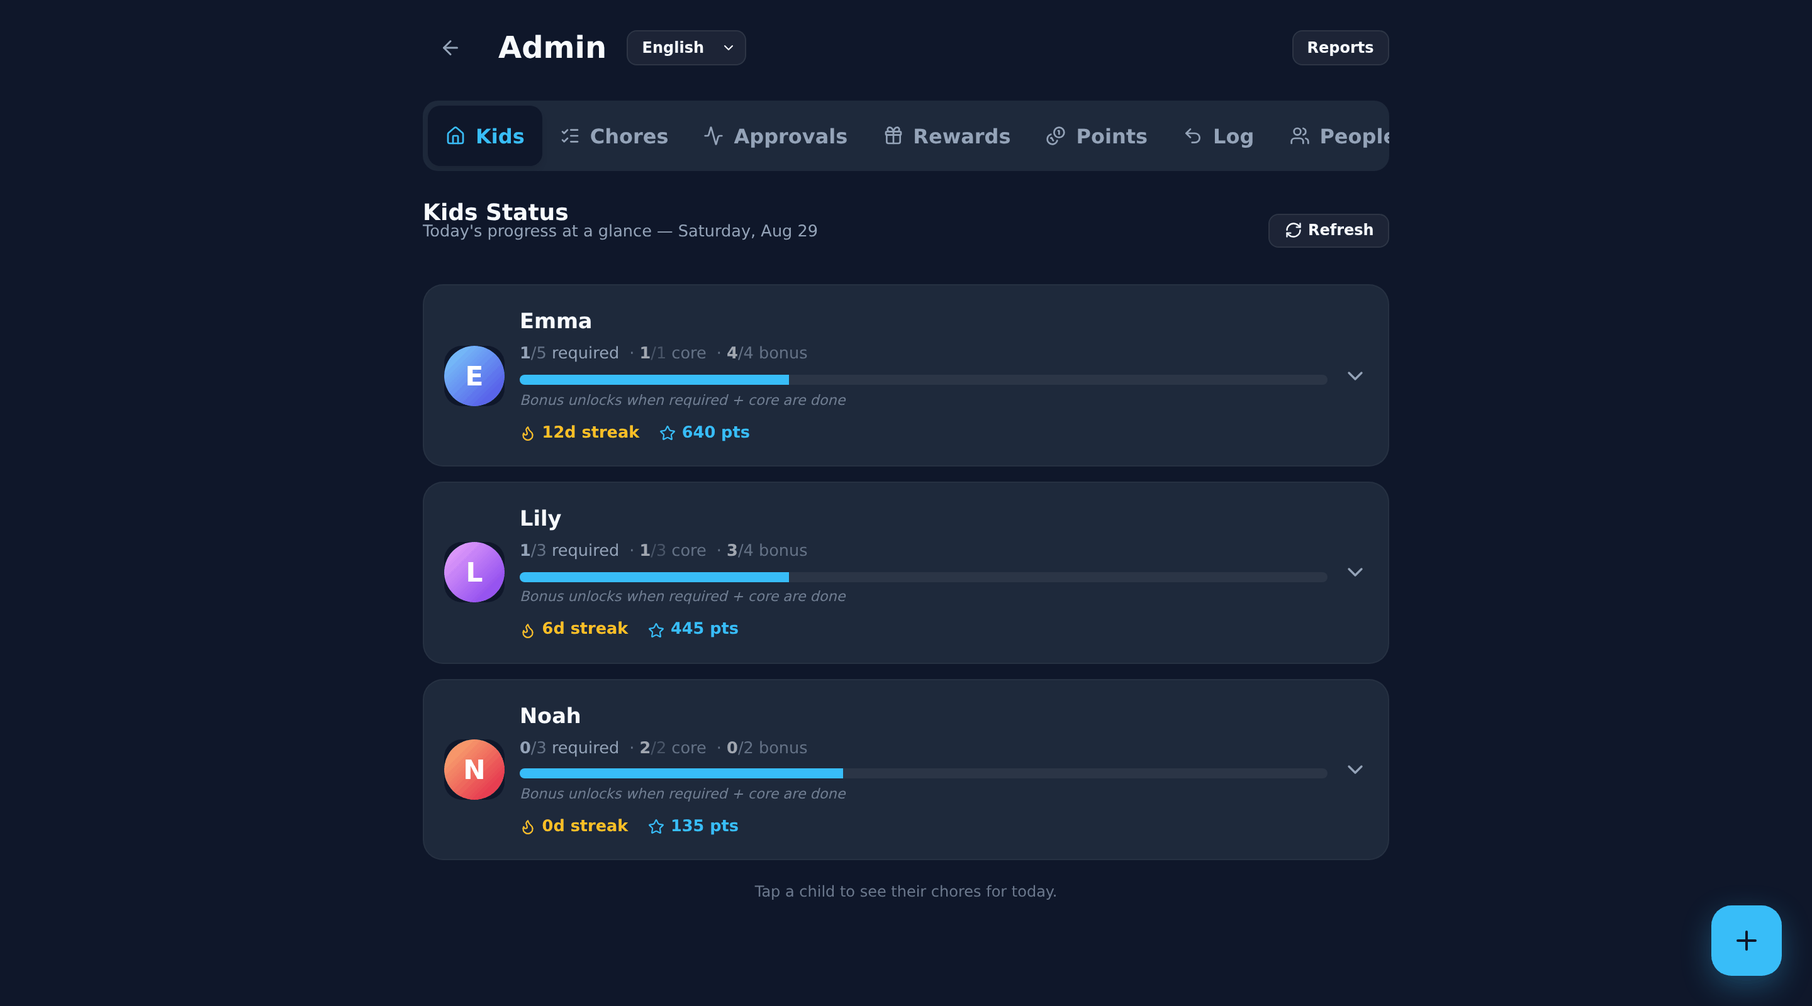
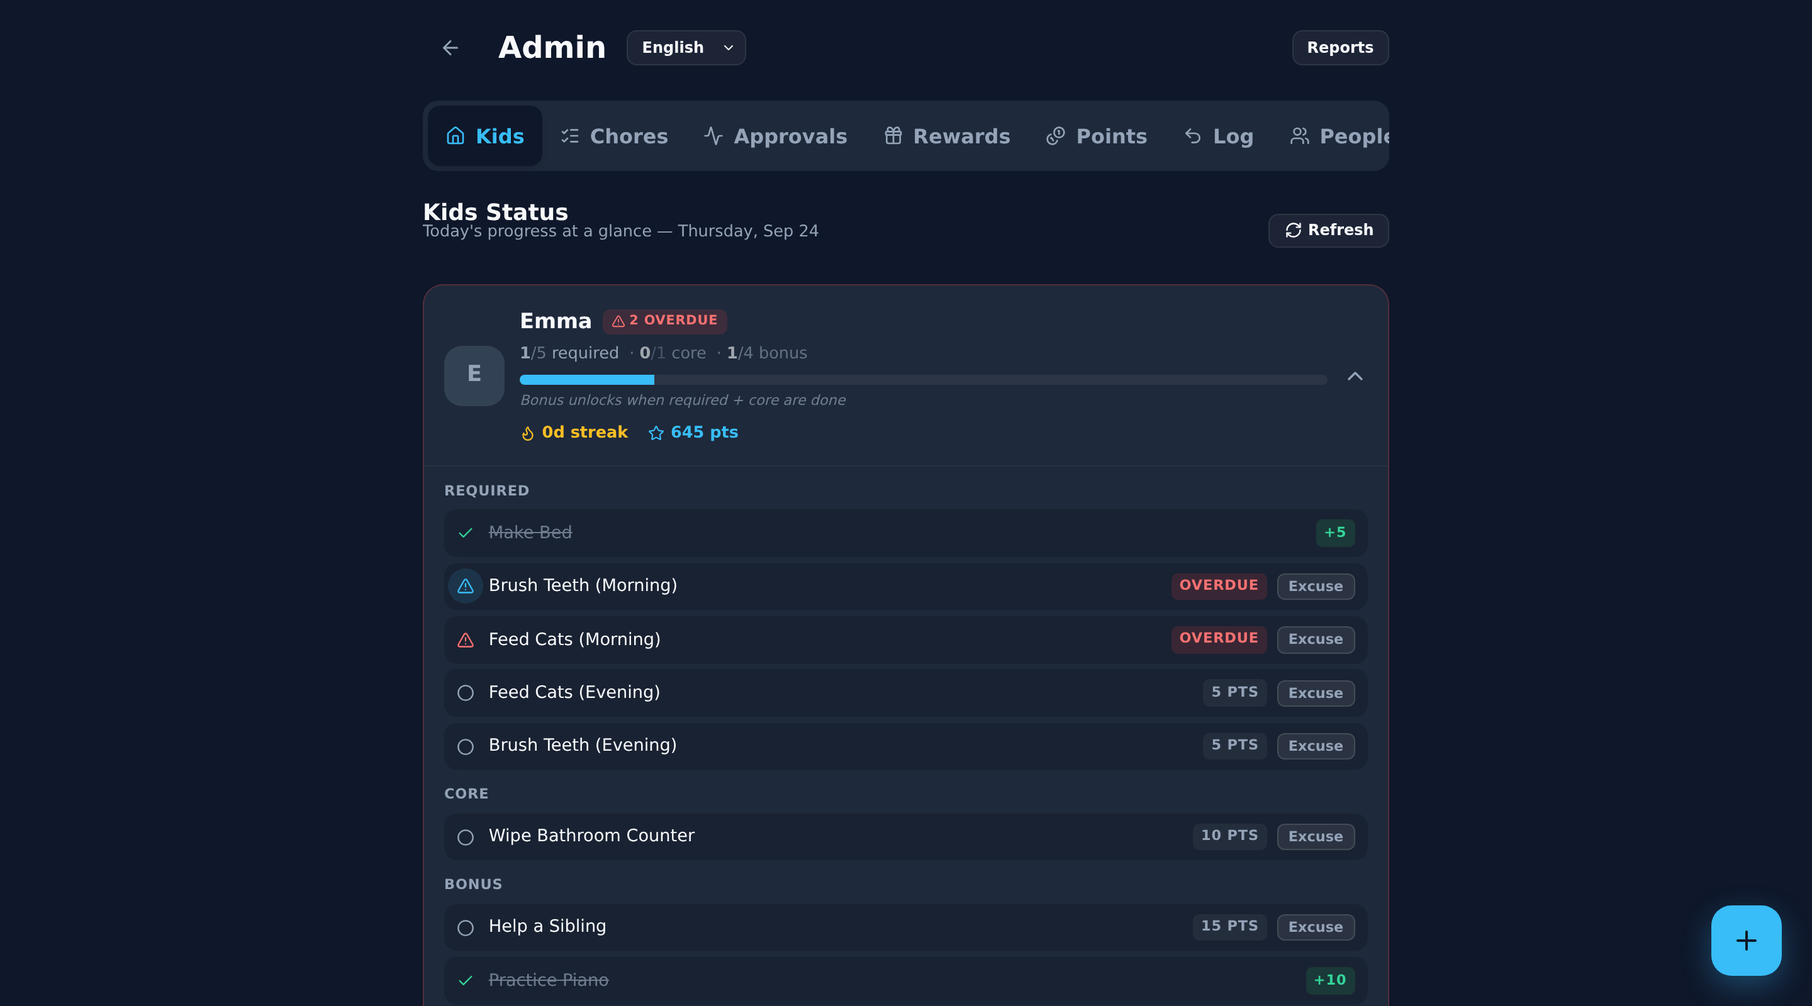
Document sign-in, OIDC providers and upgrading; refresh screenshots
- docs/authentication.md: profile-first sign-in, parent requirements,
  sessions, linking, provider setup (Pocket ID, Google, Microsoft), why
  GitHub/Discord need a broker, and the upgrade path from the passcode.
- API reference, README, CLAUDE.md and roadmap updated for sessions,
  new endpoints, error codes and webhook events.
- New screenshots for parent sign-in and linked accounts; Kids tab
  screenshot shows the tappable chore circles.
- nginx forwards the full Host (with port) so redirect URIs are right.

Claude-Session: https://claude.ai/code/session_01FZvG2ZNhcnjbJUhBr9yQvQ

diff --git a/docs/api.md b/docs/api.md
@@ -5,17 +5,31 @@ back as `{"error": "..."}` with a matching HTTP status.
 
 ## Authentication
 
-There are no sessions. A request identifies itself in one of three ways:
+A request identifies itself in one of three ways:
 
-| Method | Header | Used by |
-|--------|--------|---------|
-| User | `X-User-ID: <id>` | The web app, after profile selection |
-| Token | `Authorization: Bearer <token>` | Integrations (Home Assistant, scripts) |
+| Method | How | Used by |
+|--------|-----|---------|
+| Session | `openchore_session` cookie, or `Authorization: Bearer ocs1.…` | The web app, after signing in to a profile |
+| API token | `Authorization: Bearer <token>` | Integrations (Home Assistant, scripts); acts as an admin |
 | None | — | Public endpoints only |
 
-Admin endpoints additionally require the caller to have the `admin` role. The
-admin panel itself is gated behind a passcode (`POST /api/admin/verify`), which
-is a UI lock rather than a transport-level credential.
+Sessions are HMAC-signed and issued by the server: `POST /api/auth/login`
+(tap or PIN), an OIDC sign-in, or `POST /api/setup`. The legacy `X-User-ID`
+header is **ignored**. Admin endpoints need a session for a profile with the
+`admin` role, or an API token. See [authentication.md](authentication.md)
+for the full model.
+
+`POST /api/auth/login` takes `{"user_id": 3, "pin": "1234"}` (omit `pin` for
+profiles without one) and returns `{"user", "session", "token"}`. On failure
+the body includes a `code`:
+
+| Code | Status | Meaning |
+|------|--------|---------|
+| `incorrect_pin` | 401 | Wrong PIN |
+| `locked_out` | 429 | Too many wrong PINs; see `retry_after_seconds` |
+| `oidc_required` | 403 | The profile signs in with a linked account; see `providers` |
+| `admin_setup_required` | 403 | Parent profile without a credential; resend with `new_pin` (plus `legacy_passcode` when `legacy_passcode: true`) |
+| `incorrect_passcode` | 401 | Wrong legacy household passcode |
 
 Uploaded photos are served from `/uploads/*` and generated TTS audio from
 `/tts/*`.
@@ -30,24 +44,40 @@ No authentication required.
 |--------|------|-------------|
 | `GET` | `/api/users` | List users (drives the profile selection screen) |
 | `GET` | `/api/users/{id}` | Get one user |
-| `POST` | `/api/users/{id}/verify-pin` | Verify a profile PIN from the login screen |
-| `POST` | `/api/admin/verify` | Verify the admin passcode |
-| `POST` | `/api/setup` | First-run setup — only succeeds while no users exist |
+| `GET` | `/api/users/{id}/chores?view=daily&date=YYYY-MM-DD` | Scheduled chores, read-only (used by the wall display) |
+| `GET` | `/api/users/{id}/points` | Balance plus the transaction ledger |
+| `GET` | `/api/users/{id}/streak` | Current streak and next milestone |
+| `POST` | `/api/auth/login` | Sign in to a profile (see above) |
+| `POST` | `/api/auth/logout` | Clear the session cookie |
+| `GET` | `/api/auth/providers` | Configured OIDC providers (`id`, `name`) |
+| `GET` | `/api/auth/oidc/{provider}/start?mode=login&user_id=…&return=/path` | Browser redirect to the provider; `user_id` is the tapped profile |
+| `GET` | `/api/auth/oidc/{provider}/start?mode=link&return=/path` | Link the provider to the signed-in profile |
+| `GET` | `/api/auth/oidc/{provider}/callback` | Provider redirect target; errors come back as `?auth_error=<code>` |
+| `POST` | `/api/setup` | First-run setup: `{"parent": {"name", "pin"}, "children", "chores"}`. Only succeeds while no users exist, and signs the parent in |
 | `POST` | `/api/hooks/trigger/{uuid}` | Fire a chore trigger; the UUID is the credential |
 
 ---
 
 ## Authenticated
 
-Requires `X-User-ID` or a Bearer token.
+Requires a session or an API token.
+
+### Session
+
+| Method | Path | Description |
+|--------|------|-------------|
+| `GET` | `/api/auth/me` | The signed-in user and session (`method`, `expires_at`, `persistent`, `provider`) |
+| `POST` | `/api/auth/logout-everywhere` | Revoke every session for the caller |
+| `POST` | `/api/auth/upload-link` | `{"schedule_id"}` → a 30-minute token that can only upload a photo and complete that chore (used by the QR code) |
+| `GET` | `/api/users/{id}/identities` | Linked accounts (self or admin) |
+| `DELETE` | `/api/users/{id}/identities/{identityID}` | Unlink an account (self or admin); revokes that person's sessions |
 
 ### Chores
 
 | Method | Path | Description |
 |--------|------|-------------|
-| `GET` | `/api/users/{id}/chores?view=daily&date=YYYY-MM-DD` | Scheduled chores (`view=daily` or `weekly`) |
-| `POST` | `/api/schedules/{id}/complete` | Complete a chore; body may set `completion_date` |
-| `DELETE` | `/api/schedules/{id}/complete?date=YYYY-MM-DD` | Undo a completion |
+| `POST` | `/api/schedules/{id}/complete` | Complete a chore; body may set `completion_date`. Only the assignee or an admin may call it. Points go to the assignee, and an admin completing on someone's behalf doesn't need a photo |
+| `DELETE` | `/api/schedules/{id}/complete?date=YYYY-MM-DD` | Undo a completion (assignee or admin) |
 | `POST` | `/api/upload` | Upload photo proof (multipart) |
 | `PUT` | `/api/completions/{id}/photo` | Attach an uploaded photo to a completion |
 
@@ -55,8 +85,6 @@ Requires `X-User-ID` or a Bearer token.
 
 | Method | Path | Description |
 |--------|------|-------------|
-| `GET` | `/api/users/{id}/points` | Balance plus the transaction ledger |
-| `GET` | `/api/users/{id}/streak` | Current streak and next milestone |
 | `GET` | `/api/rewards` | Rewards visible to this user |
 | `POST` | `/api/rewards/{id}/redeem` | Redeem a reward |
 | `GET` | `/api/users/{id}/redemptions` | Redemption history |
@@ -95,8 +123,8 @@ Requires an authenticated caller with the `admin` role.
 
 | Method | Path | Description |
 |--------|------|-------------|
-| `POST` | `/api/users` | Create a user |
-| `PUT` | `/api/users/{id}` | Update a user |
+| `POST` | `/api/users` | Create a user; `pin` is required for `role: admin` |
+| `PUT` | `/api/users/{id}` | Update a user. Promoting to admin requires an existing credential; the last admin can't be demoted |
 | `DELETE` | `/api/users/{id}` | Delete a user |
 | `PUT` | `/api/users/{id}/pause` | Pause chores (vacation mode) |
 | `PUT` | `/api/users/{id}/unpause` | Resume chores |
@@ -153,8 +181,7 @@ Requires an authenticated caller with the `admin` role.
 |--------|------|-------------|
 | `GET` | `/api/admin/reports` | Analytics data behind the reports page |
 | `GET` | `/api/admin/reports/ai-summary` | Narrative summary of a kid's week |
-| `GET` `PUT` | `/api/admin/settings/{key}` | Read / write a setting |
-| `PUT` | `/api/admin/passcode` | Change the admin passcode |
+| `GET` `PUT` | `/api/admin/settings/{key}` | Read / write a setting (secrets such as `session_secret` are not readable) |
 | `GET` | `/api/admin/export-config` | Export current configuration as YAML |
 | `POST` | `/api/admin/ai/test` | Test photo review against an image |
 | `POST` | `/api/admin/ai/tts` | Synthesize speech for arbitrary text |
@@ -183,5 +210,7 @@ attempt is recorded in the delivery log.
 | `points.decayed` | Daily decay debits a balance (payload reports any points reclaimed from savings goals) |
 | `chore.missed` | A chore ends the day unfinished |
 | `chore.fcfs_completed` | A first-come-first-served chore is claimed |
-| `auth.admin_passcode.verified` `auth.admin_passcode.failed` `auth.admin_passcode.changed` | Admin passcode activity |
-| `auth.profile_pin.verified` `auth.profile_pin.failed` `auth.profile_pin.changed` `auth.profile_pin.cleared` | Profile PIN activity |
+| `auth.profile_pin.verified` `auth.profile_pin.failed` `auth.profile_pin.changed` `auth.profile_pin.cleared` | Profile PIN activity, including PIN sign-ins |
+| `auth.oidc.login` | Someone signed in with a linked account |
+| `auth.identity.linked` `auth.identity.unlinked` | A linked account was added or removed |
+| `auth.admin_passcode.verified` `auth.admin_passcode.failed` | The legacy household passcode was used during the one-time upgrade step |

diff --git a/docs/authentication.md b/docs/authentication.md
@@ -1,0 +1,157 @@
+# Signing in
+
+OpenChore is built for a shared tablet on the wall first and personal phones
+second. Sign-in follows that: **tap your profile**, then prove it's you only
+if the profile asks for it.
+
+| Profile has… | Tapping it… |
+|---|---|
+| Nothing (typical for young kids) | Signs straight in |
+| A PIN | Shows the PIN pad |
+| A linked account (Pocket ID, Google, …) | Shows **Continue with …** |
+| Both | Shows the PIN pad *and* **Continue with …** |
+
+Parents are ordinary profiles with the admin role. They sign in the same way
+and get a **Manage** button on their own dashboard; there is no separate
+household passcode. Parents take part like everyone else: they can be
+assigned chores, earn points, redeem rewards and pick a theme.
+
+Every **parent profile must have a PIN or a linked account**. The server
+refuses to create a parent without a PIN, to promote someone without one, or
+to remove a parent's last way to sign in.
+
+## Sessions
+
+Signing in gets you a server-issued, signed session in an `HttpOnly` cookie.
+The API does not trust a client-supplied user ID.
+
+| Signed in with | Lasts | On idle |
+|---|---|---|
+| Tap or PIN | 12 hours (`auth.kiosk_session_ttl`) | Signed out after 5 minutes idle; the tablet returns to the wall display |
+| Linked account (OIDC) | 30 days (`auth.personal_session_ttl`) | Stays signed in, so your phone just opens to your chores |
+
+**Sign out on all devices** (in *Linked accounts*) revokes every session for
+your profile. Unlinking an account or changing someone's role does the same
+for that person.
+
+Five wrong PINs in a row lock that profile for 30 seconds, and the lockout
+doubles with each further miss (up to 15 minutes).
+
+The wall display (`/ambient`) needs no sign-in. The per-person chores, points
+and streak endpoints it reads are public and read-only.
+
+## Linking an account (OIDC)
+
+OpenChore works with any OpenID Connect provider: Pocket ID, Authelia,
+Authentik, Keycloak, Zitadel, Kanidm, Google, Microsoft and so on. You can
+configure several at once.
+
+Accounts are never created from a provider. Each person:
+
+1. Signs in to their profile as usual (tap or PIN).
+2. Opens **Linked accounts** (the link icon on their dashboard) and chooses
+   **Link Pocket ID**, or whichever provider you set up.
+3. Signs in at the provider and is sent back, linked.
+
+From then on, tapping their profile offers **Continue with Pocket ID**, and on
+their own phone they stay signed in. If someone taps a profile and then signs
+in at the provider as somebody else, the sign-in is refused.
+
+Parents can see and unlink anyone's linked accounts from **Manage → People**.
+Only the person themselves can link a new one.
+
+### Configuring a provider
+
+Register OpenChore as an OIDC client at your provider:
+
+- **Redirect URI:** `https://<your OpenChore URL>/api/auth/oidc/<id>/callback`
+- **Scopes:** `openid profile email`
+- **Client type:** confidential (client secret). PKCE (S256) is always used as well.
+
+Then add it to `config/config.yaml`. Unlike the seed sections, the `auth`
+section is read on **every** start, so you can add it to an existing install
+and restart:
+
+```yaml
+auth:
+  public_url: "https://chores.example.com"   # used to build the redirect URI
+  oidc:
+    - id: pocketid             # appears in the callback URL; don't change it once people have linked
+      name: "Pocket ID"        # button label: "Continue with Pocket ID"
+      issuer: "https://id.example.com"
+      client_id: "openchore"
+      client_secret: "${POCKET_ID_CLIENT_SECRET}"   # ${VAR} expands from the environment
+      prompt: login            # optional: re-authenticate every time (recommended on shared tablets)
+```
+
+Or configure a single provider with environment variables only:
+
+| Variable | Meaning |
+|---|---|
+| `OIDC_ISSUER` | Issuer URL (enables the provider) |
+| `OIDC_CLIENT_ID` / `OIDC_CLIENT_SECRET` | Client credentials |
+| `OIDC_PROVIDER_ID` | Provider ID, default `oidc` |
+| `OIDC_PROVIDER_NAME` | Button label, default `Single sign-on` |
+| `OIDC_SCOPES` | Space- or comma-separated, default `openid profile email` |
+| `OIDC_PROMPT` | Passed through as the `prompt` parameter, e.g. `login` |
+| `OPENCHORE_PUBLIC_URL` | Overrides `auth.public_url` |
+| `OPENCHORE_SESSION_SECRET` | Optional; at least 32 characters. Otherwise a secret is generated and stored in the database |
+
+**Set `public_url`** (or the *System Base URL* under Manage → Settings) when
+OpenChore sits behind a reverse proxy. Otherwise the redirect URI is guessed
+from the request's `Host` and `X-Forwarded-Proto` headers, which proxies don't
+always pass through.
+
+If your provider uses a certificate from a private CA, point `SSL_CERT_FILE`
+at a bundle that includes it.
+
+### Pocket ID
+
+In Pocket ID, go to **OIDC Clients → Add OIDC Client**, set the callback URL
+above, and copy the client ID and secret into the config. Pocket ID signs in
+with passkeys. On a shared wall tablet that usually means scanning a QR code
+with your phone, so parents often keep a PIN for the tablet and use Pocket ID
+on their own phones. Setting `prompt: login` makes Pocket ID ask every time
+rather than silently reusing a session left open on the tablet.
+
+### Google and Microsoft
+
+Both are standard OIDC providers:
+
+| Provider | Issuer |
+|---|---|
+| Google | `https://accounts.google.com` |
+| Microsoft (one tenant) | `https://login.microsoftonline.com/<tenant-id>/v2.0` |
+| Microsoft (personal accounts) | `https://login.microsoftonline.com/9188040d-6c67-4c5b-b112-36a304b66dad/v2.0` |
+
+Microsoft's multi-tenant `common` and `organizations` endpoints don't publish
+a fixed issuer, so they aren't supported. Use a tenant-specific issuer.
+
+### "Social login" with GitHub, Discord, Apple and others
+
+GitHub, Discord and Facebook use plain OAuth 2.0, not OpenID Connect, so
+OpenChore can't talk to them directly. If you want them, put an identity
+broker in front: Authentik, Keycloak, Zitadel or Dex can each sign people in
+with those services and present them to OpenChore as a single OIDC provider.
+Pocket ID and Authelia don't federate upstream logins.
+
+## Upgrading from the household passcode
+
+Earlier versions had one shared admin passcode and no real sign-in. After
+upgrading:
+
+- **Parent profiles that already have a PIN** just use it.
+- **Parent profiles without a PIN** are asked, the first time they're tapped,
+  for the old admin passcode (default `0000`) and a new PIN of their own. Once
+  every parent has a PIN or a linked account, the old passcode is deleted.
+- **Kids** are unaffected: no PIN means tap and go, same as before.
+- **API tokens** keep working unchanged.
+- **Scripts that sent `X-User-ID`** must switch to an API token
+  (Manage → Settings → API Tokens) or sign in with `POST /api/auth/login` and
+  send the returned session as `Authorization: Bearer ocs1.…`.
+- The `auth.admin_passcode.*` webhook events now fire only for that one-time
+  upgrade step. Use `auth.profile_pin.*`, `auth.oidc.login` and
+  `auth.identity.*` for sign-in auditing.
+
+Photo QR codes now carry a short-lived token that can only upload a photo for
+that one chore. The phone that scans the code doesn't need to be signed in.

diff --git a/README.md b/README.md
@@ -49,9 +49,11 @@ docker compose up -d
 Open **http://localhost:8080** and pick a profile.
 
 > [!IMPORTANT]
-> The admin passcode is `0000` on a fresh database, or whatever
-> `settings.admin_passcode` says in your config (the example file uses `1234`).
-> Change it under **Admin → Settings** before putting this on your network.
+> Parents sign in to their own profile with a PIN (the example config uses
+> `1234` for Alex and `5678` for Jamie) and then tap **Manage**. Change those
+> PINs with the key icon on the dashboard before putting this on your network.
+> Want Pocket ID, Authelia, Google or another OpenID Connect sign-in? See
+> [Signing in](docs/authentication.md).
 
 `config.yaml` is applied **only when the database is empty**. After first boot,
 manage everything from the admin panel — or wipe and re-seed with
@@ -106,11 +108,19 @@ Around it sit the other levers:
 </tr>
 <tr>
 <td><img src="docs/screenshots/kid-week.png" alt="Weekly chore view"></td>
-<td><img src="docs/screenshots/admin-kids.png" alt="Admin dashboard showing each child's status"></td>
+<td><img src="docs/screenshots/admin-kids.png" alt="Manage screen showing a child's chores with tappable status circles"></td>
 </tr>
 <tr>
 <td align="center"><b>Week</b> — what's done, what's locked, what's coming</td>
-<td align="center"><b>Admin</b> — every kid's day at a glance</td>
+<td align="center"><b>Manage</b> — everyone's day at a glance; tap a circle to tick a chore off for them</td>
+</tr>
+<tr>
+<td><img src="docs/screenshots/parent-sign-in.png" alt="A parent's PIN pad with a Continue with Pocket ID button" width="60%"></td>
+<td><img src="docs/screenshots/linked-accounts.png" alt="The linked accounts sheet" width="60%"></td>
+</tr>
+<tr>
+<td align="center"><b>Sign in</b> — tap your profile, then PIN or single sign-on</td>
+<td align="center"><b>Linked accounts</b> — Pocket ID, Authelia, Google, any OIDC provider</td>
 </tr>
 </table>
 
@@ -141,6 +151,8 @@ Around it sit the other levers:
 
 **Household**
 - Parent approval queue
+- Parents can take part too
+- PINs and OIDC single sign-on
 - Photo proof via QR handoff
 - Discord notifications
 - Reports: scorecards, trends, misses
@@ -189,6 +201,9 @@ Around it sit the other levers:
 | `AI_ENDPOINT` | `http://litert:8080` | Vision backend (LiteRT or Ollama) |
 | `TTS_ENDPOINT` | `http://kokoro:8880` | Kokoro TTS service |
 | `POINTS_DECAY_INTERVAL` | `15m` | How often the decay worker checks (the e2e suite shortens it) |
+| `OPENCHORE_PUBLIC_URL` | request host | External URL used for OIDC redirect URIs |
+| `OIDC_ISSUER`, `OIDC_CLIENT_ID`, `OIDC_CLIENT_SECRET`, … | — | One OIDC provider without editing config; see [Signing in](docs/authentication.md) |
+| `OPENCHORE_SESSION_SECRET` | generated | Session signing key (≥32 chars); otherwise generated once and stored in the database |
 
 ## Development
 
@@ -212,6 +227,7 @@ and `httptest`, no mocks.
 
 ## Documentation
 
+- [Signing in](docs/authentication.md) — PINs, parents, sessions, OIDC providers, upgrading
 - [API reference](docs/api.md) — endpoints, auth, and webhook events
 - [Roadmap](ROADMAP.md) — shipped and planned
 - [CLAUDE.md](CLAUDE.md) — architecture notes and conventions

diff --git a/CLAUDE.md b/CLAUDE.md
@@ -14,7 +14,7 @@ Family chore-tracking PWA: Go API + React/TypeScript frontend, SQLite storage, o
 - `internal/api/` — chi handlers, middleware, auth; integration tests in `api_test.go`.
 - `internal/store/` — SQLite DAO (one method per query, `context.Context`-aware).
 - `internal/webhook/` — async dispatcher, HMAC-SHA256 signing, expiry/decay checkers.
-- `internal/config/` — YAML loader; **seeds only when DB is empty**.
+- `internal/config/` — YAML loader; **seeds only when DB is empty** (except `auth:`, read every start).
 - `internal/ai/`, `internal/aibackend/`, `internal/tts/`, `internal/discord/` — optional integrations.
 - `migrations/` — numbered `*_up.sql` / `*_down.sql` pairs.
 - `config/config.example.yaml` — dev seed data.
@@ -38,12 +38,14 @@ Family chore-tracking PWA: Go API + React/TypeScript frontend, SQLite storage, o
 - **Seed data:** edit `config/config.example.yaml`; the seeder only runs on an empty DB, so `make dev` (which wipes) is the way to re-seed.
 - **Points:** every points change must write a row to `point_transactions`.
 - **Bonus chores:** do not award bonus points unless all `required` and `core` chores for the day are complete.
-- **Auth:** `X-User-ID` header (and optional `Bearer` token); admin gated by PIN. No sessions. Middleware: `RequireUser`, `RequireUserOrToken`, `RequireAdmin`.
+- **Auth:** server-issued HMAC-signed sessions (`openchore_session` cookie or `Bearer ocs1.…`) from `POST /api/auth/login` (tap/PIN), OIDC (`internal/api/oidc.go`) or setup; API tokens (`Bearer <hex>`) act as admin. `X-User-ID` is **not** trusted. Admin is a role on a profile; every admin needs a PIN or linked identity. Middleware: `RequireSession`, `RequireUserOrToken`, `RequireAdmin`. See `docs/authentication.md`.
+- **Parents take part:** don't filter by `role = 'child'` for chores/points/rewards/streaks; role only gates management.
 - **Errors:** respond with JSON `{"error": "..."}` via `writeError(w, status, msg)`. Log with stdlib `log.Printf`.
 - **Background work:** long-running goroutines are started from `cmd/server/main.go` and must accept a `context.Context` for shutdown.
 
 ## Testing
-- Go: real DB + `httptest`, no mocks. Add cases alongside `internal/api/api_test.go`.
+- Go: real DB + `httptest`, no mocks. Add cases alongside `internal/api/api_test.go`; auth/OIDC cases (with a fake IdP) live in `auth_test.go`. Use `sessionHeaders(id)` / `adminHeaders()` to mint sessions.
+- E2E API calls: `authHeaders(userId)` from `e2e/tests/helpers/setup.ts` (signs in via the API); parents sign in with `loginAsAdmin(page)`.
 - E2E: Playwright (Chromium). Two projects — keep the `admin-pin-change` project's dependency ordering intact.
 - Frontend unit: Vitest (see `web/src/**/*.test.ts`).
 

diff --git a/ROADMAP.md b/ROADMAP.md
@@ -55,6 +55,9 @@
 - [ ] Plugin architecture for external chore sources (source + external_id on chores)
 - [x] Chore trigger webhooks — per-chore trigger URLs for external systems (Home Assistant, etc.) with cooldown, default assignee, and query param overrides
 - [x] API token auth (Bearer tokens, SHA-256 hashed, admin-level access for integrations)
+- [x] Server-issued sessions; admin is a role on each parent's own profile (household passcode retired)
+- [x] OIDC single sign-on (Pocket ID, Authelia, Authentik, Keycloak, Google, …), linked per profile
+- [x] Parents take part (chores, points, rewards) and can complete chores on a kid's behalf
 - [x] Integration discovery endpoint (`GET /api/chores/triggerable` — chores with triggers + user list)
 - [x] Home Assistant custom integration (openchore-ha) — config flow, service calls, HACS-ready
 - [x] Admin UI for API token management (create, list, revoke)
